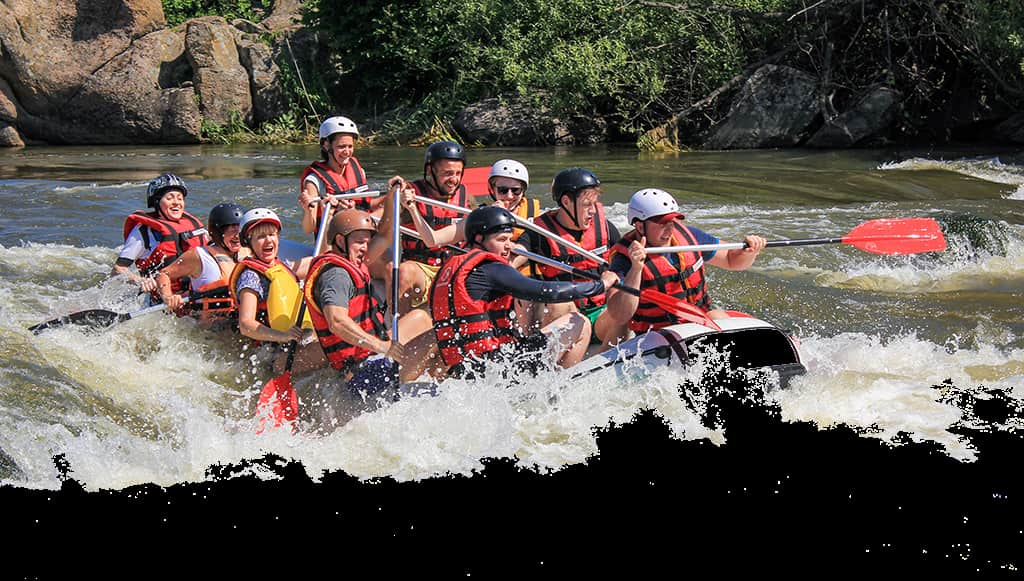
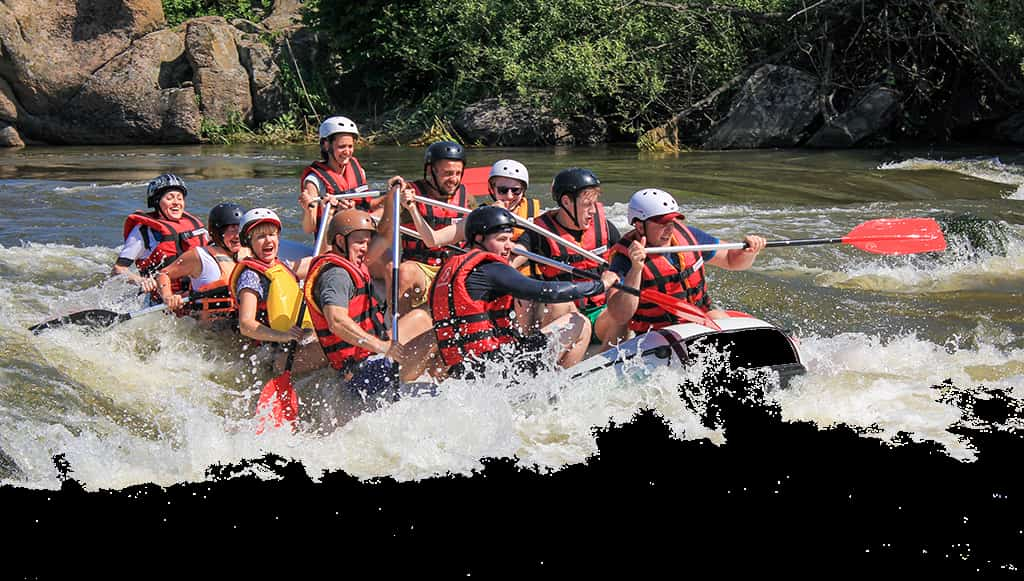
Replace image_two.png with image_two.jpg and update figcaption for clarity

diff --git a/wwr/about.html b/wwr/about.html
@@ -76,7 +76,7 @@
                 </figure>
 
                 <figure>
-                    <img src="images/image_two.png" alt="Sunset Rapids">
+                    <img src="images/image_two.jpg" alt="Sunset Rapids">
                     <figcaption>Day 2 Sunset Rapids</figcaption>
                 </figure>
 
@@ -92,7 +92,7 @@
 
                 <figure>
                     <img src="images/image_five.jpg" alt="closing day">
-                    <figcaption>Sunset Rapids</figcaption>
+                    <figcaption>last day</figcaption>
                 </figure>
             </div>
         </section>
